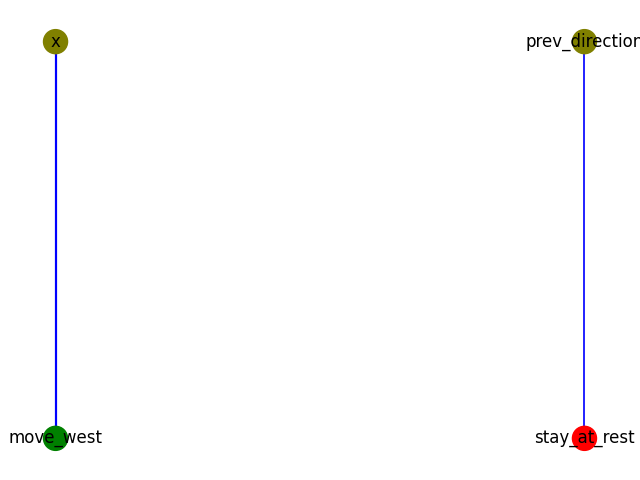
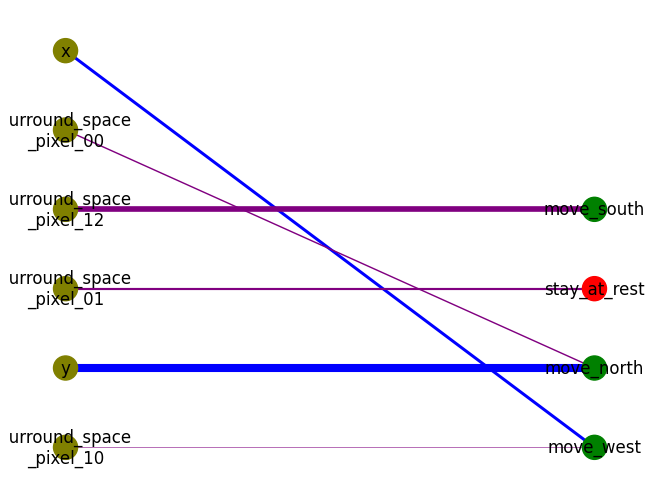
clustered and visualized

diff --git a/mind_visualizer.py b/mind_visualizer.py
@@ -4,19 +4,19 @@ import pandas as pd
 import numpy as np
 from matplotlib import pyplot as plt
 
-def visualize_genome_sequence(sequences, representation, input_params, output_neurons, path="mind.png"):
+def visualize_genome_sequence(sequences, representation, input_params, output_neurons, path="mind.png", gap=4):
 	plt.cla()
 	plt.clf()
 	G = nx.Graph()
 	for sequence in sequences:
-		bin_sequence = "".join([representation[i] for i in sequence])
+		bin_sequence = sequence#"".join([representation[i] for i in sequence])
 		active = int(bin_sequence[0])
 		input_param = int(bin_sequence[1:6].encode(), 2)%28
 		output_neuron = int(bin_sequence[6:9].encode(), 2)%5
 		val = (int(bin_sequence[9:].encode(), 2)-4096)/1000
 		if active:
 			G.add_nodes_from([(input_params[input_param], {"color": "olive"}), (output_neurons[output_neuron], {"color": "green" if output_neuron!=0 else "red"})])
-			G.add_edge(input_params[input_param], output_neurons[output_neuron], weight=abs(val), color='blue' if val>0 else 'purple')
+			G.add_edge(input_params[input_param], output_neurons[output_neuron], weight=abs(val)**1.5, color='blue' if val>0 else 'purple')
 	input_neuron_indices, output_neuron_indices = [], []
 	for idx, node in enumerate(G.nodes):
 		if G.nodes[node]['color'] == 'olive':
@@ -26,14 +26,30 @@ def visualize_genome_sequence(sequences, representation, input_params, output_ne
 	positions = {}
 	for idx, node in enumerate(G.nodes):
 		if idx in input_neuron_indices:
-			positions.update({node: (input_neuron_indices.index(idx)*2, 2)})
+			positions.update({node: (0, input_neuron_indices.index(idx)*gap)})
 		else:
-			positions.update({node: (output_neuron_indices.index(idx)*2, 0)})
+			positions.update({node: (2, output_neuron_indices.index(idx)*gap)})
 	nx.draw(G, pos=positions, node_color=[G.nodes[node]['color'] for node in G.nodes], edge_color=[G.edges[edge]['color'] for edge in G.edges], width=[G.edges[edge]['weight'] for edge in G.edges], with_labels=True)
 	plt.draw()
-	plt.savefig(path)
+	plt.savefig(path, bbox_inches="tight")
 
-
+def generate_centroid_genes(representation, path="./env_pops/gen_100/time_000.csv"):
+	df = pd.read_csv(path)
+	df = df.values
+	df = df.T[7:].T
+	sequences = []
+	for col in df.T:
+		bin_values = []
+		for val in col:
+			bin_sequence = "".join([representation[i] for i in val])
+			bin_values.append(bin_sequence)
+		main_descs, main_counts = np.unique([i[:9] for i in bin_values], return_counts=True)
+		main_inp_out_unit = main_descs[np.argmax(main_counts)]
+		active_values = int(np.mean([(int(i[9:].encode(), 2)-4096)/1000 for i in bin_values if i[:9]==main_inp_out_unit])*1000+4096)
+		active_value = np.binary_repr(active_values, width=13)
+		sequence = main_inp_out_unit+active_value
+		sequences.append(sequence)
+	return sequences
 
 if __name__ == '__main__':
 	representation={"A": "00", "G": "01", "C": "10", "T": "11"}
@@ -42,7 +58,8 @@ if __name__ == '__main__':
 		for j in range(5):
 			if i==2 and j==2:
 				continue
-			input_params.append("surround_space_pixel_"+str(i)+str(j))
+			input_params.append("surround_space\n_pixel_"+str(i)+str(j))
 	output_neurons = ["stay_at_rest"] + ["move_"+i for i in ["north", "south", "east", "west"]]
-	sequences = ["TTCCGGCACTG", "TTAAGGATAAG"]
+
+	sequences = generate_centroid_genes(representation)
 	visualize_genome_sequence(sequences, representation, input_params, output_neurons)
